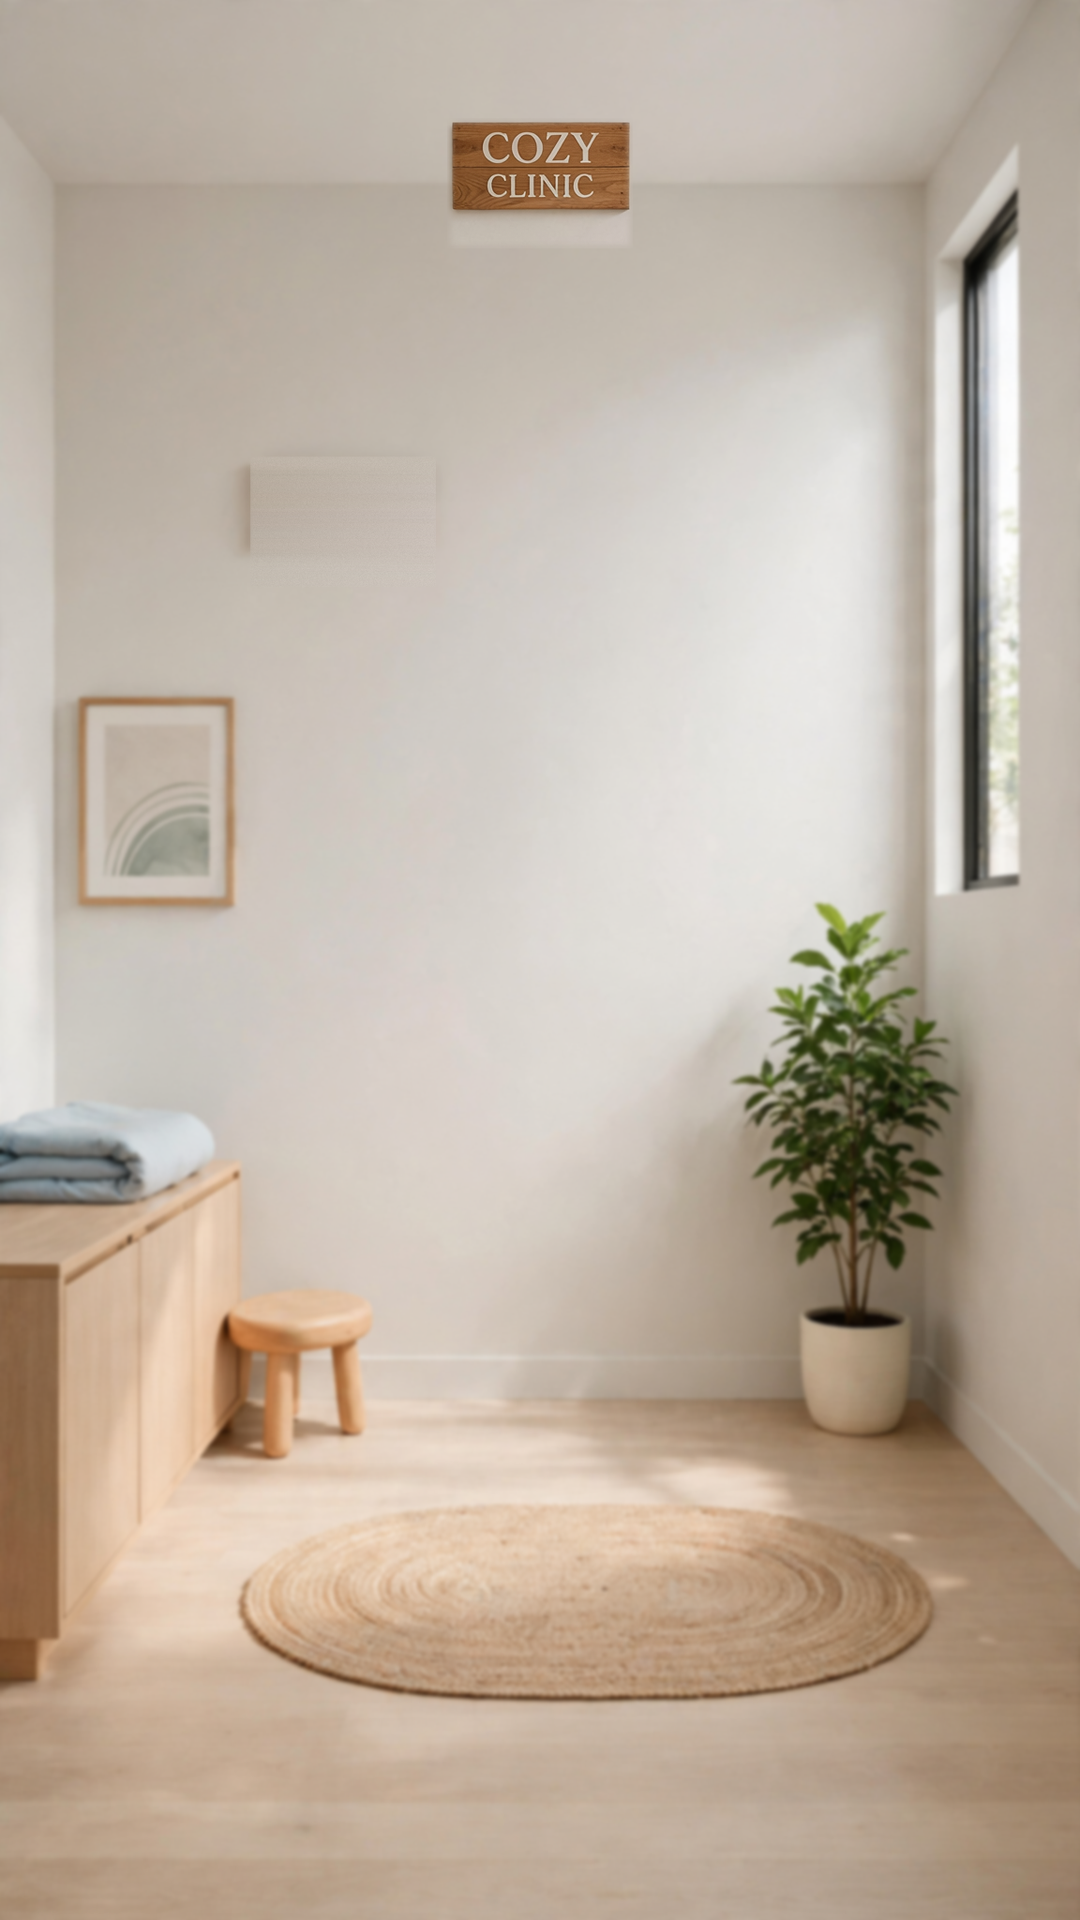
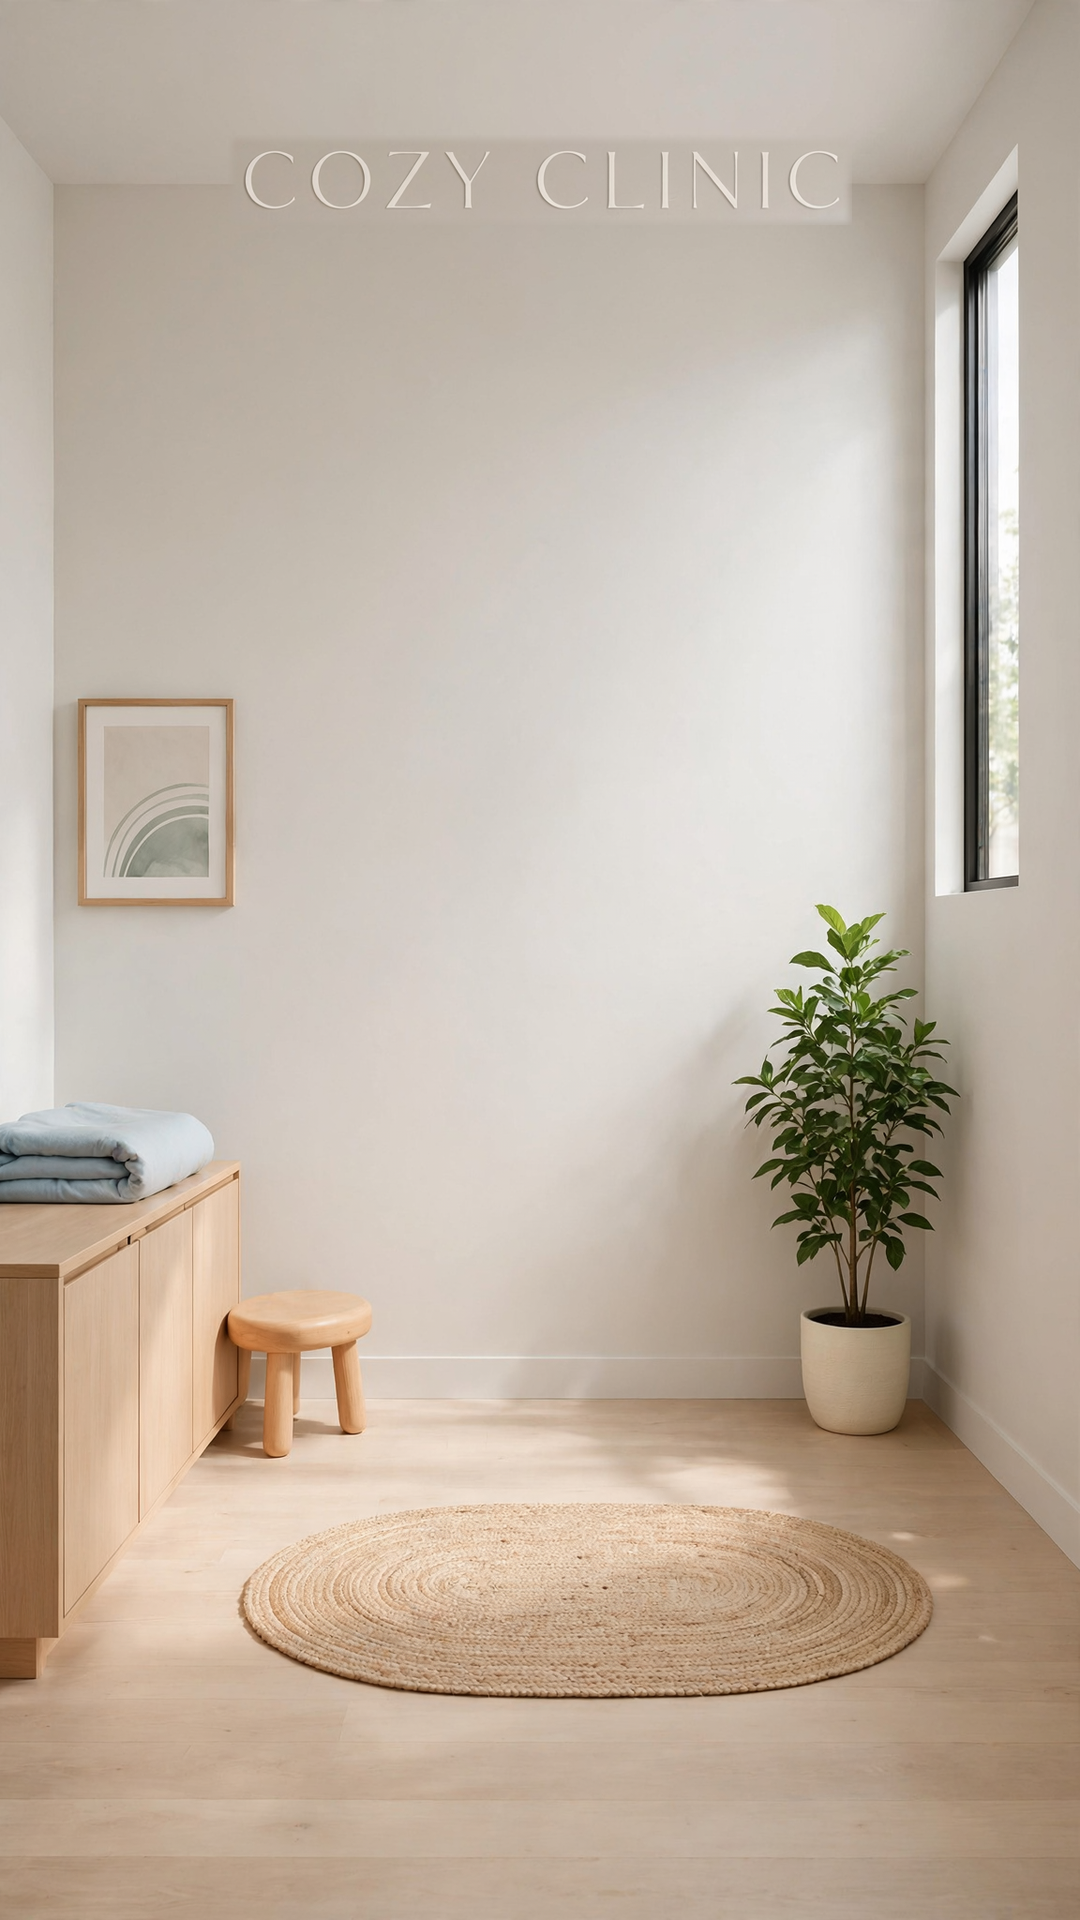
Sign restyle: subtle single-line wall lettering
- Oak plaques out; shy painted COZY CLINIC on exam-a/b + waiting-a/b
- Auditor 0 findings; 90/90; tsc clean; build green; spend $0.04

diff --git a/CHECKPOINT.md b/CHECKPOINT.md
@@ -1,20 +1,18 @@
-# CHECKPOINT — Sweep fixes (2026-10-29)
+# CHECKPOINT — Sign restyle (2026-10-29)
 
-Phase: static defect sweep (no-browser substitute for the
-§10 loop). One-flight cheer sends; toasts above the result
-modal; topOnly sheet-blocking confirmed, no bug. Nothing
-else in the sweep needed a change.
-Files: scene, PROGRESS.
+Phase: subtle wall lettering. Oak plaques out; single-line
+COZY CLINIC painted on the plaster (wide, larger, shy) on
+exam-a/b + waiting-a/b, centered in the clear band, seams
+invisible. No code touched.
+Files: 4 plates, manifest, contact sheet, auditor,
+PROGRESS.
 Test result: auditor 0 findings; `npm test` 90/90; tsc clean;
 build green.
 Deployment URL: `https://cozy-clinic.vercel.app/` (live-polled
 200 after push).
-Playtest result: NOT playtested in a browser (SIGABRT stands).
-Image spend this run: $0.00 (ledger ~$0.51 cumulative).
-Accepted queue COMPLETE (M4a/b/c + hook + sweep). Next needs
-the operator: live playtest notes (incl. two-tab shared-care
-demo), demo video, firsthand README paragraph, submission.
-Paused: maneuver library (no UI consumer yet — exam round is
-case quizzes now; resume only with exam-loop wiring).
+Playtest result: operator playing live ("plays nicely").
+Image spend this run: $0.04 (ledger ~$0.55 cumulative).
+Deferred per operator: demo video + README paragraph (need
+real captures); maneuver library still paused.
 
 STOP.

diff --git a/PROGRESS.md b/PROGRESS.md
@@ -1672,3 +1672,20 @@ clearance — then a polish fix loop for real findings.
   absence: sheets already block lower zones, no bug.
 - Verification: auditor 0 findings; 90/90; tsc clean; build green.
 - Spend $0.00.
+
+## Sign restyle: subtle wall lettering (2026-10-29)
+
+- SIGN2 OWNERSHIP: 4 room plates, `art/manifest.json` (ledger),
+  `art/contact-sheets/plates-sign2-*`, auditor rect,
+  PROGRESS/CHECKPOINT. No code touched.
+- Oak plaque replaced per operator note: single-line COZY CLINIC
+  painted directly on the wall plaster, wide, larger thin
+  capitals, low contrast — architecture, not a UI element.
+  Relocated to canvas (270,90) via diff-vs-presign script onto
+  pristine presign bases; seams verified invisible at zoom.
+- Operator deferrals recorded: demo video + firsthand README
+  paragraph wait until the game is nearly finished (need real
+  captures); maneuver library stays paused (no UI consumer —
+  exam round is case quizzes now).
+- Verification: auditor 0 findings; 90/90; tsc clean; build green.
+- Spend $0.04 (ledger ~$0.55 cumulative).
